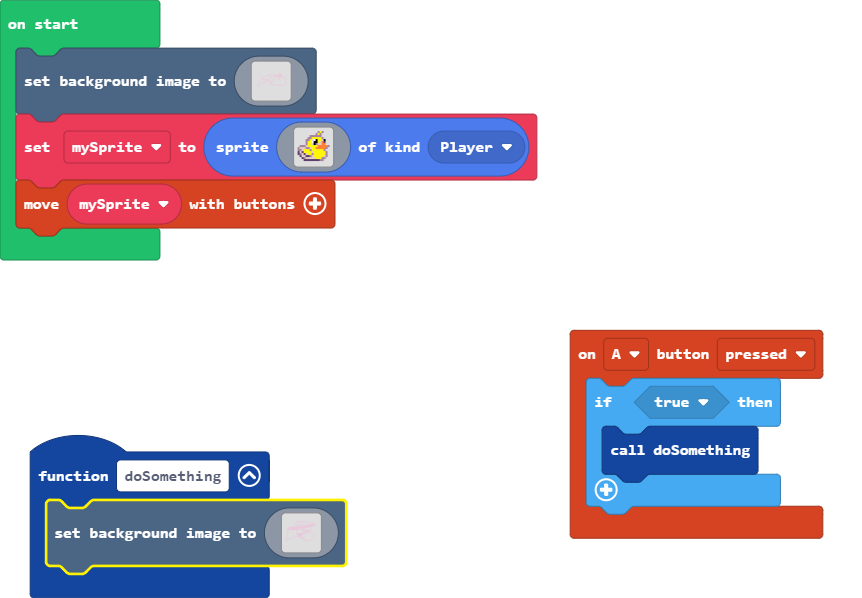
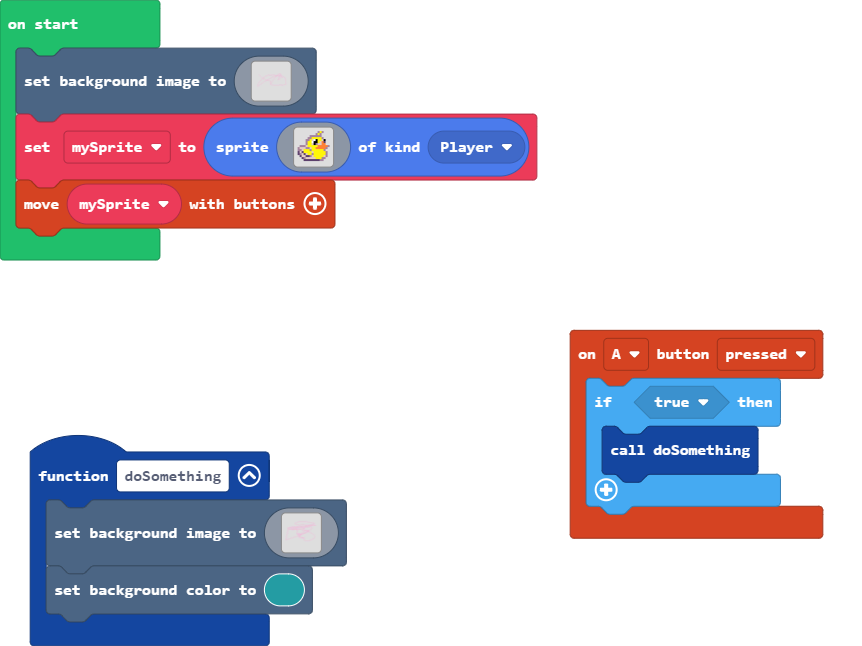
Update main.blocks, main.ts

diff --git a/main.ts b/main.ts
@@ -126,6 +126,7 @@ function doSomething () {
         ................................................................................................................................................................
         ................................................................................................................................................................
         `)
+    scene.setBackgroundColor(6)
 }
 scene.setBackgroundImage(img`
     ................................................................................................................................................................
